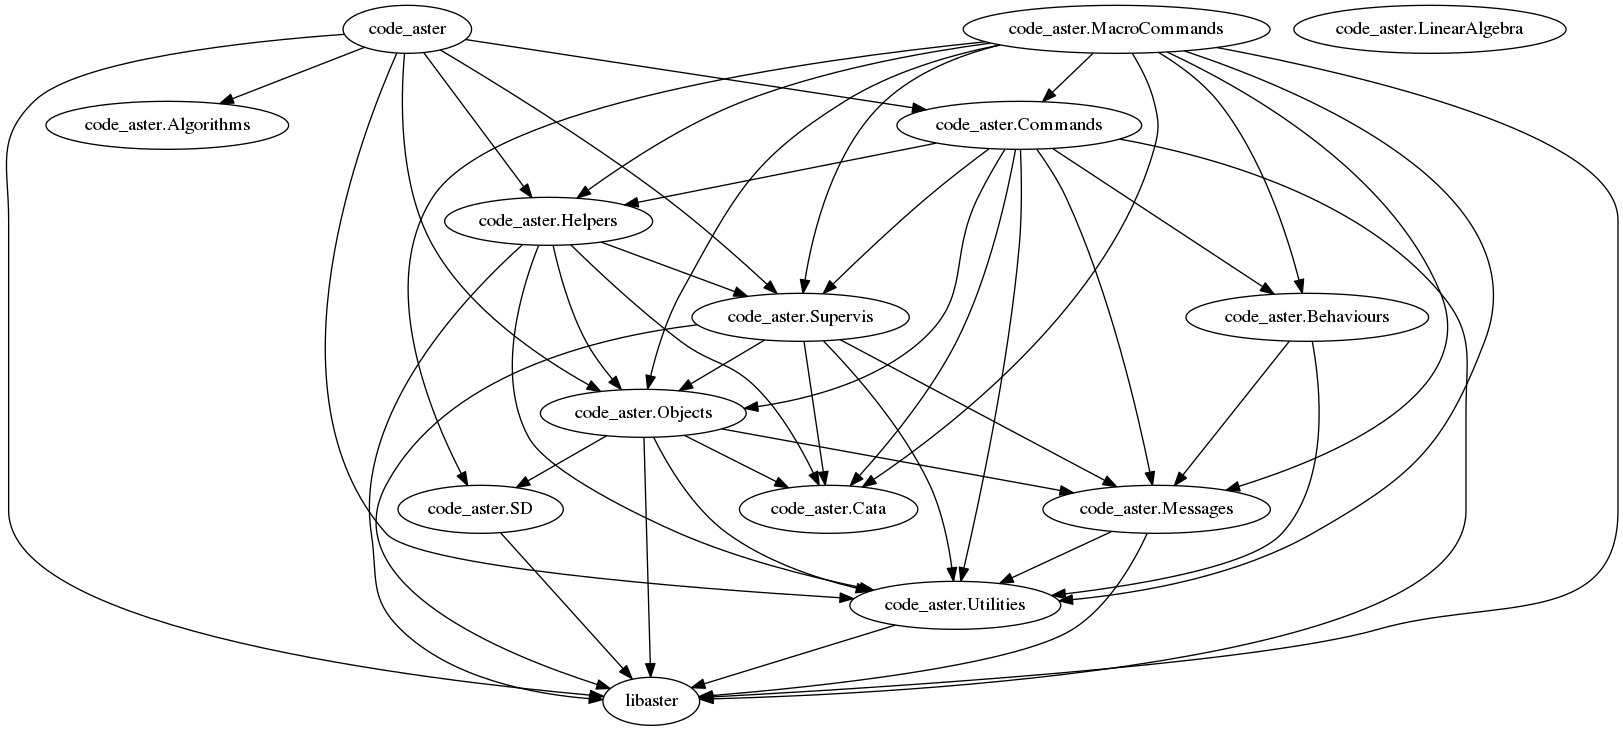
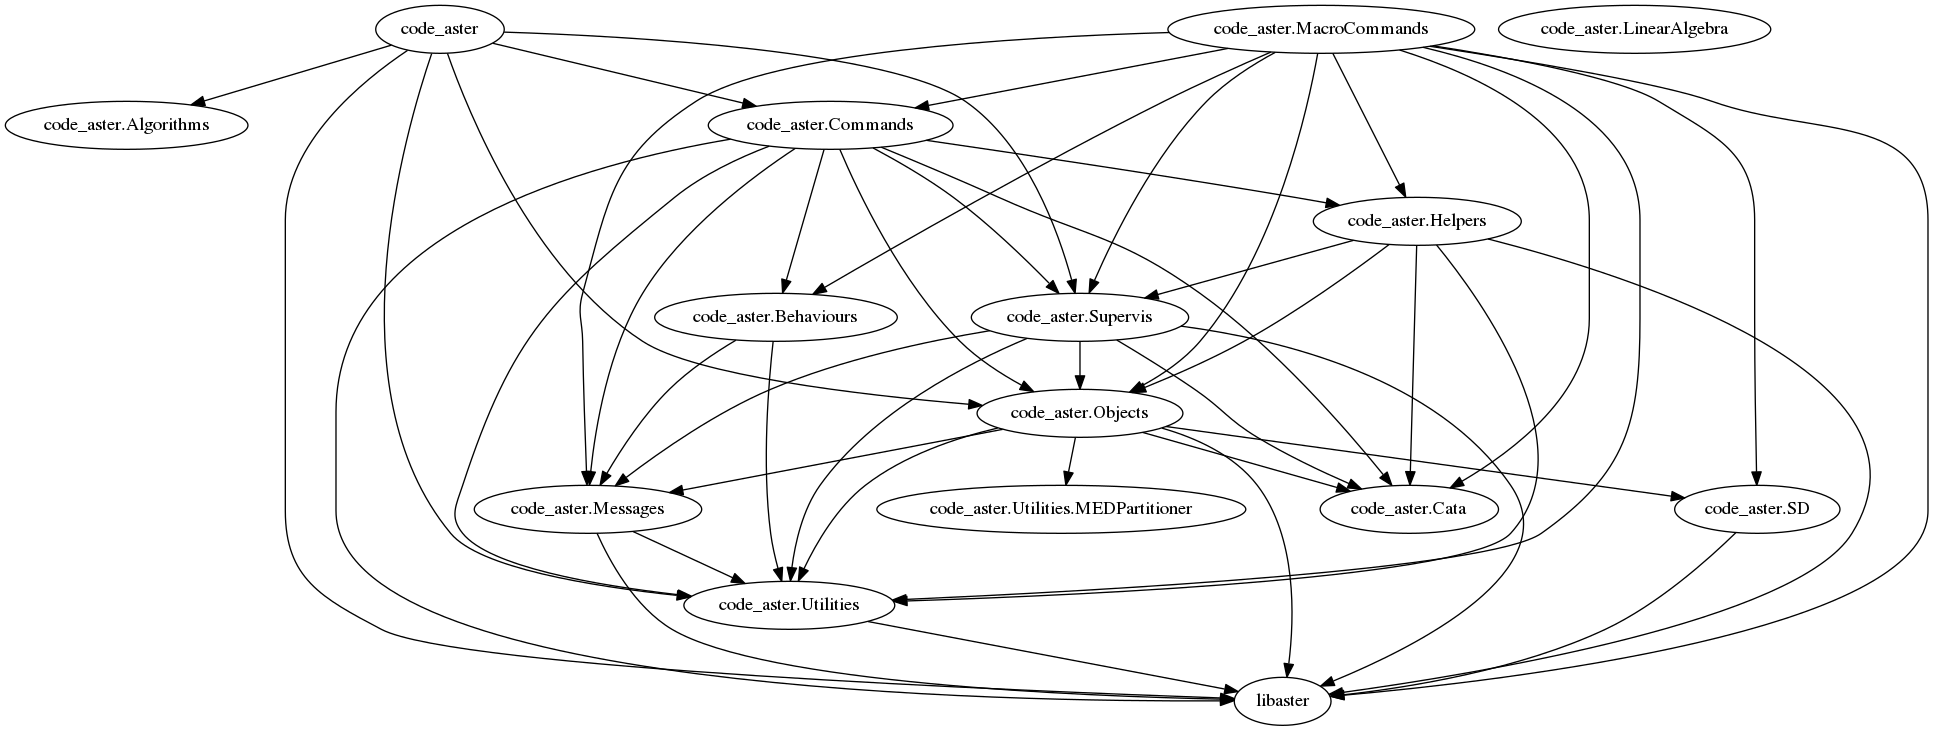
[#27406] add debugging totol to track dependencies
Former-commit-id: be0e9c7ce2b2a7b3bac31b516f4d60c29ac2c27a

diff --git a/code_aster/Helpers/debugging.py b/code_aster/Helpers/debugging.py
@@ -1,0 +1,187 @@
+# coding=utf-8
+# --------------------------------------------------------------------
+# Copyright (C) 1991 - 2020 - EDF R&D - www.code-aster.org
+# This file is part of code_aster.
+#
+# code_aster is free software: you can redistribute it and/or modify
+# it under the terms of the GNU General Public License as published by
+# the Free Software Foundation, either version 3 of the License, or
+# (at your option) any later version.
+#
+# code_aster is distributed in the hope that it will be useful,
+# but WITHOUT ANY WARRANTY; without even the implied warranty of
+# MERCHANTABILITY or FITNESS FOR A PARTICULAR PURPOSE.  See the
+# GNU General Public License for more details.
+#
+# You should have received a copy of the GNU General Public License
+# along with code_aster.  If not, see <http://www.gnu.org/licenses/>.
+# --------------------------------------------------------------------
+
+# person_in_charge: mathieu.courtois at edf.fr
+
+"""
+:py:mod:`debugging` --- Debugging utilities
+*******************************************
+
+These module defines some convenient utilities that **are not intended to
+be used in production**.
+"""
+
+import os
+import os.path as osp
+import re
+
+from ..Cata.Language.SyntaxObjects import _F
+from ..Cata.Language.SyntaxUtils import force_list, mixedcopy
+from ..Objects import DataStructure
+from .LogicalUnit import LogicalUnitFile
+
+DEL = object()
+
+
+class DataStructureFilter(object):
+    """This object store the path to *DataStructure* objects that are
+    referenced in a dump.
+
+    Arguments:
+        dump (str): Text dump of a *DataStructure*.
+    """
+
+    def __init__(self, dump):
+        """Initialization"""
+        self._parent_context = []
+        self._dump = dump
+        self._keep = None
+        self._path = []
+        self.paths = []
+
+    def set_parent_context(self, context):
+        """Set the parent context.
+
+        If the checker is directly called on a keyword (without checking the
+        command itself) the values defined upper may be required to evaluate
+        blocks conditions but the parent context has not been filled.
+
+        This parent context could be an optional argument in visit* functions.
+        """
+        self._parent_context.append(context)
+
+    def visitCommand(self, step, userDict=None):
+        """Visit a Command object"""
+        self._parent_context.append(userDict)
+        self._visitComposite(step, userDict)
+        self._parent_context.pop()
+
+    def visitMacro(self, step, userDict=None):
+        """Visit a Macro object"""
+        self.visitCommand(step, userDict)
+
+    def visitBloc(self, step, userDict=None):
+        """Visit a Bloc object"""
+        pass
+
+    def visitFactorKeyword(self, step, userDict=None):
+        """Visit a FactorKeyword object"""
+        # debug_message2("checking factor with", userDict)
+        self._visitComposite(step, userDict)
+
+    def visitSimpleKeyword(self, step, skwValue):
+        """Visit a SimpleKeyword object"""
+        islist = type(skwValue) in (list, tuple)
+        skwValue = force_list(skwValue)
+        keep = []
+        for i in skwValue:
+            if isinstance(i, DataStructure) and i.getName() in self._dump:
+                keep.append(i)
+        if keep and not islist:
+            keep = keep[0]
+        self._keep = keep or DEL
+
+    def _visitComposite(self, step, userDict=None):
+        """Visit a composite object (containing BLOC, FACT and SIMP objects)
+        """
+        if isinstance(userDict, dict):
+            userDict = [userDict]
+        # loop on occurrences filled by the user
+        for userOcc in userDict:
+            userOrig = userOcc.copy()
+            ctxt = self._parent_context[-1] if self._parent_context else {}
+            # loop on keywords provided by the user
+            todel = []
+            for key, value in userOcc.items():
+                self._path.append(key)
+                if len(self._path) == 2 and type(value) in (list, tuple):
+                    self._path.append(len(value))
+                # NB: block conditions are evaluated with the original values
+                kwd = step.getKeyword(key, userOrig, ctxt)
+                if not kwd:
+                    continue
+                kwd.accept(self, value)
+                if self._keep is not None:
+                    if self._keep is DEL:
+                        todel.append(key)
+                    else:
+                        self.paths.append(self._path[:])
+                        userOcc[key] = self._keep
+                    self._keep = None
+                if len(self._path) == 3:
+                    self._path.pop(-1)
+                self._path.pop(-1)
+            for key in todel:
+                del userOcc[key]
+
+
+TEMPLATE = '''
+    def add_references(self, keywords):
+        """Add references to linked *DataStructure* objects.
+
+        Arguments:
+            keywords (dict): Keywords arguments of user's keywords.
+        """
+${references}
+'''
+
+REF = " " * 8 + '''self._result.addDependency(${arg})'''
+
+
+def track_dependencies(inst, keywords):
+    """Hook that tracks commands dependencies.
+
+    Arguments:
+        inst (function): the *ExecuteCommand* instance.
+        keywords (dict): User keywords.
+
+    Returns:
+        dict: pairs of name per corresponding Python instance.
+    """
+    cata = inst._cata
+    result = inst._result
+    if not result:
+        return
+
+    dumpfile = LogicalUnitFile.open("dump.txt")
+    result.debugPrint(dumpfile.unit)
+    dumpfile.release()
+    with open("dump.txt", "r") as fobj:
+        dump = fobj.read()
+
+    visitor = DataStructureFilter(dump)
+    onlyds = mixedcopy(keywords)
+    cata.accept(visitor, onlyds)
+
+    defs = []
+    while visitor.paths:
+        path = visitor.paths.pop(0)
+        key1 = path.pop(0)
+        root = 'keywords["{0}"]'.format(key1)
+        if not path:
+            defs.append(root)
+        elif len(path) == 1:
+            key2 = path.pop(0)
+            defs.append(root + "[{0}]".format(key2))
+        else:
+            key2, size = path
+            for i in range(size):
+                defs.append(root + '[{0}]["{1}"]'.format(i, key2))
+
+    print("DBGREF:", defs)

diff --git a/code_aster/Supervis/ExecuteCommand.py b/code_aster/Supervis/ExecuteCommand.py
@@ -122,6 +122,7 @@ class ExecuteCommand(object):
     # class attributes
     command_name = command_op = command_cata = None
     level = 0
+    hook = None
 
     _cata = _op = _result = _counter = _caller = _exc = None
     _tuplmode = None
@@ -227,6 +228,16 @@ class ExecuteCommand(object):
         execution was successful.
         """
         return self._exc
+
+    @classmethod
+    def register_hook(cls, func):
+        """Register a hook for *post_exec* step.
+
+        Arguments:
+            func (function): Function with signature: *ExecuteCommand*, *dict*
+                of keywords.
+        """
+        cls.hook = func
 
     @classmethod
     def show_syntax(cls):
@@ -395,9 +406,12 @@ class ExecuteCommand(object):
         Arguments:
             keywords (dict): Keywords arguments of user's keywords.
         """
+
         try:
             self.add_references(keywords)
             self.post_exec(keywords)
+            if self.hook:
+                self.hook(keywords)
         finally:
             self.print_result()
 

diff --git a/code_aster/Commands/operator.py b/code_aster/Commands/operator.py
@@ -34,7 +34,9 @@ command with few changes.
 
 from ..Cata.Commands import commandStore
 from ..Cata.Syntax import Macro, Operator, Procedure
+from ..Helpers.debugging import track_dependencies
 from ..Supervis import ExecuteCommand, ExecuteMacro
+
 
 UNSUPPORTED = ('FORMULE', )
 
@@ -60,3 +62,6 @@ def define_operators(store):
             store[name] = legacy_command_factory(ExecuteCommand, name)
         elif isinstance(command, Macro):
             store[name] = legacy_command_factory(ExecuteMacro, name)
+
+# for debugging
+ExecuteCommand.register_hook(track_dependencies)

diff --git a/code_aster/__init__.py b/code_aster/__init__.py
@@ -48,6 +48,10 @@ Here is the diagram of the package organization:
 
 """
 
+# image generated with:
+#   diagr_import --pkg --grp -g doc/devguide/img/diagr_code_aster.png \
+#       code_aster/**/*.py
+
 # discourage import *
 __all__ = []
 
